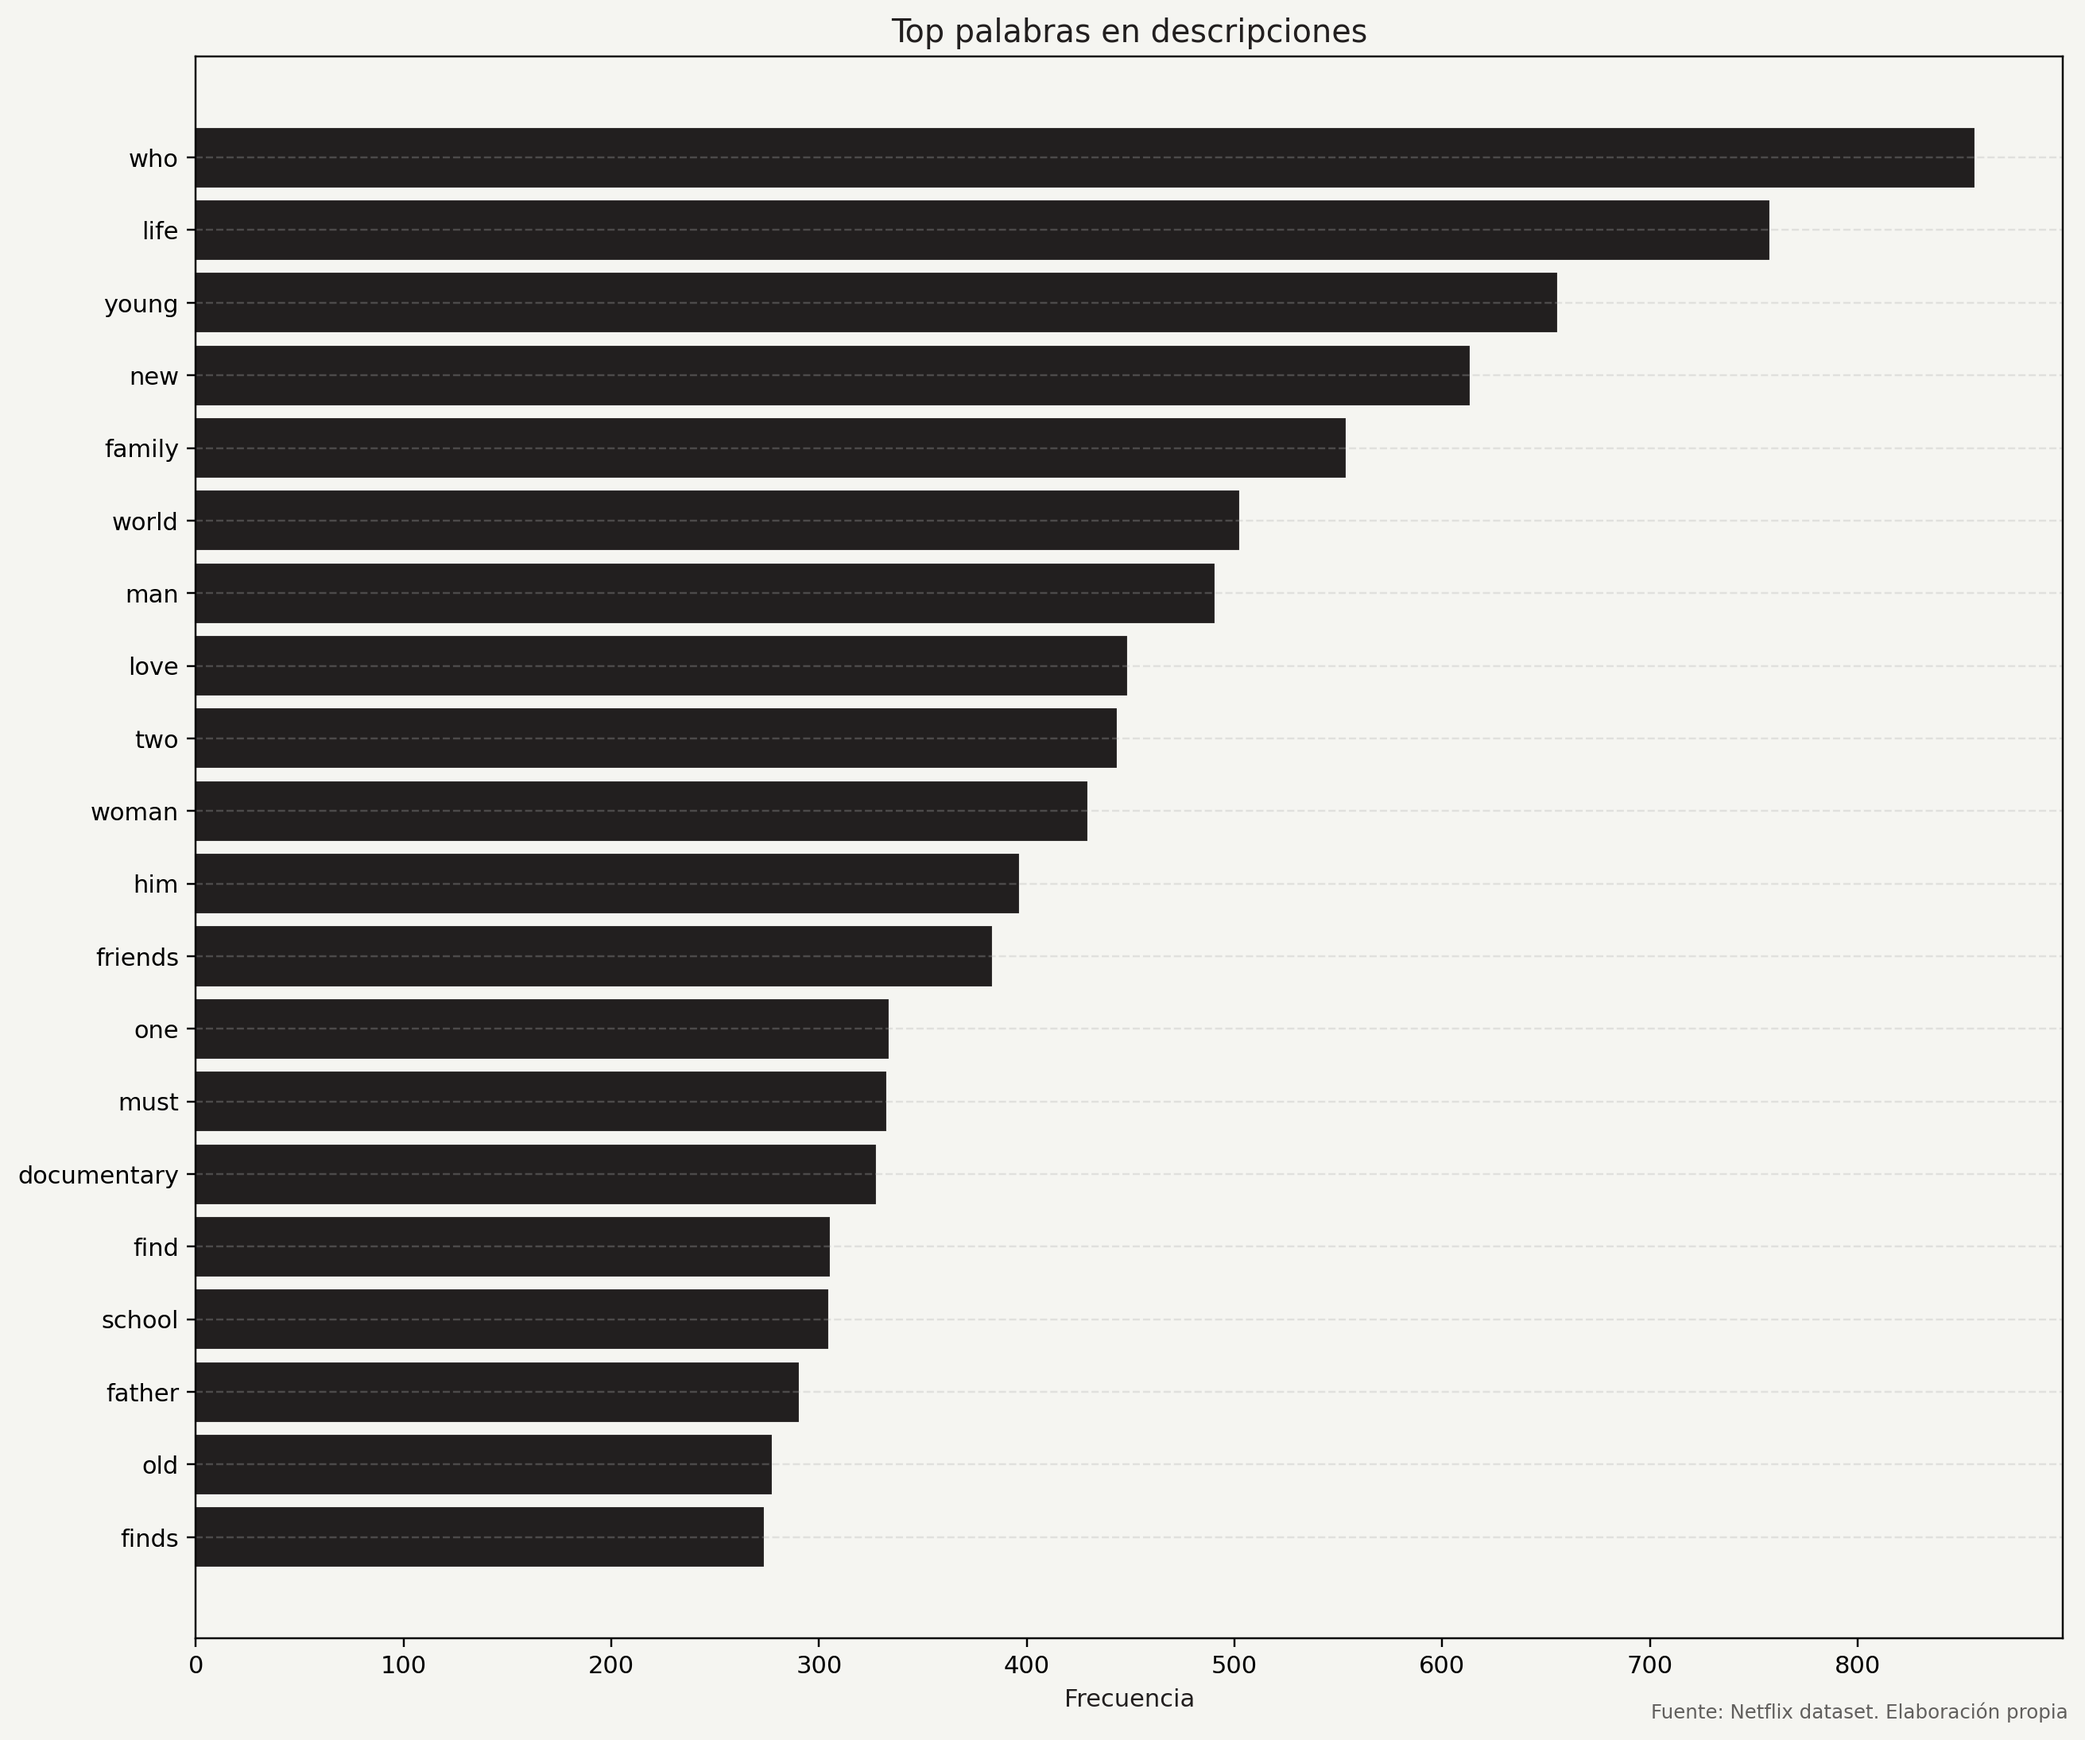
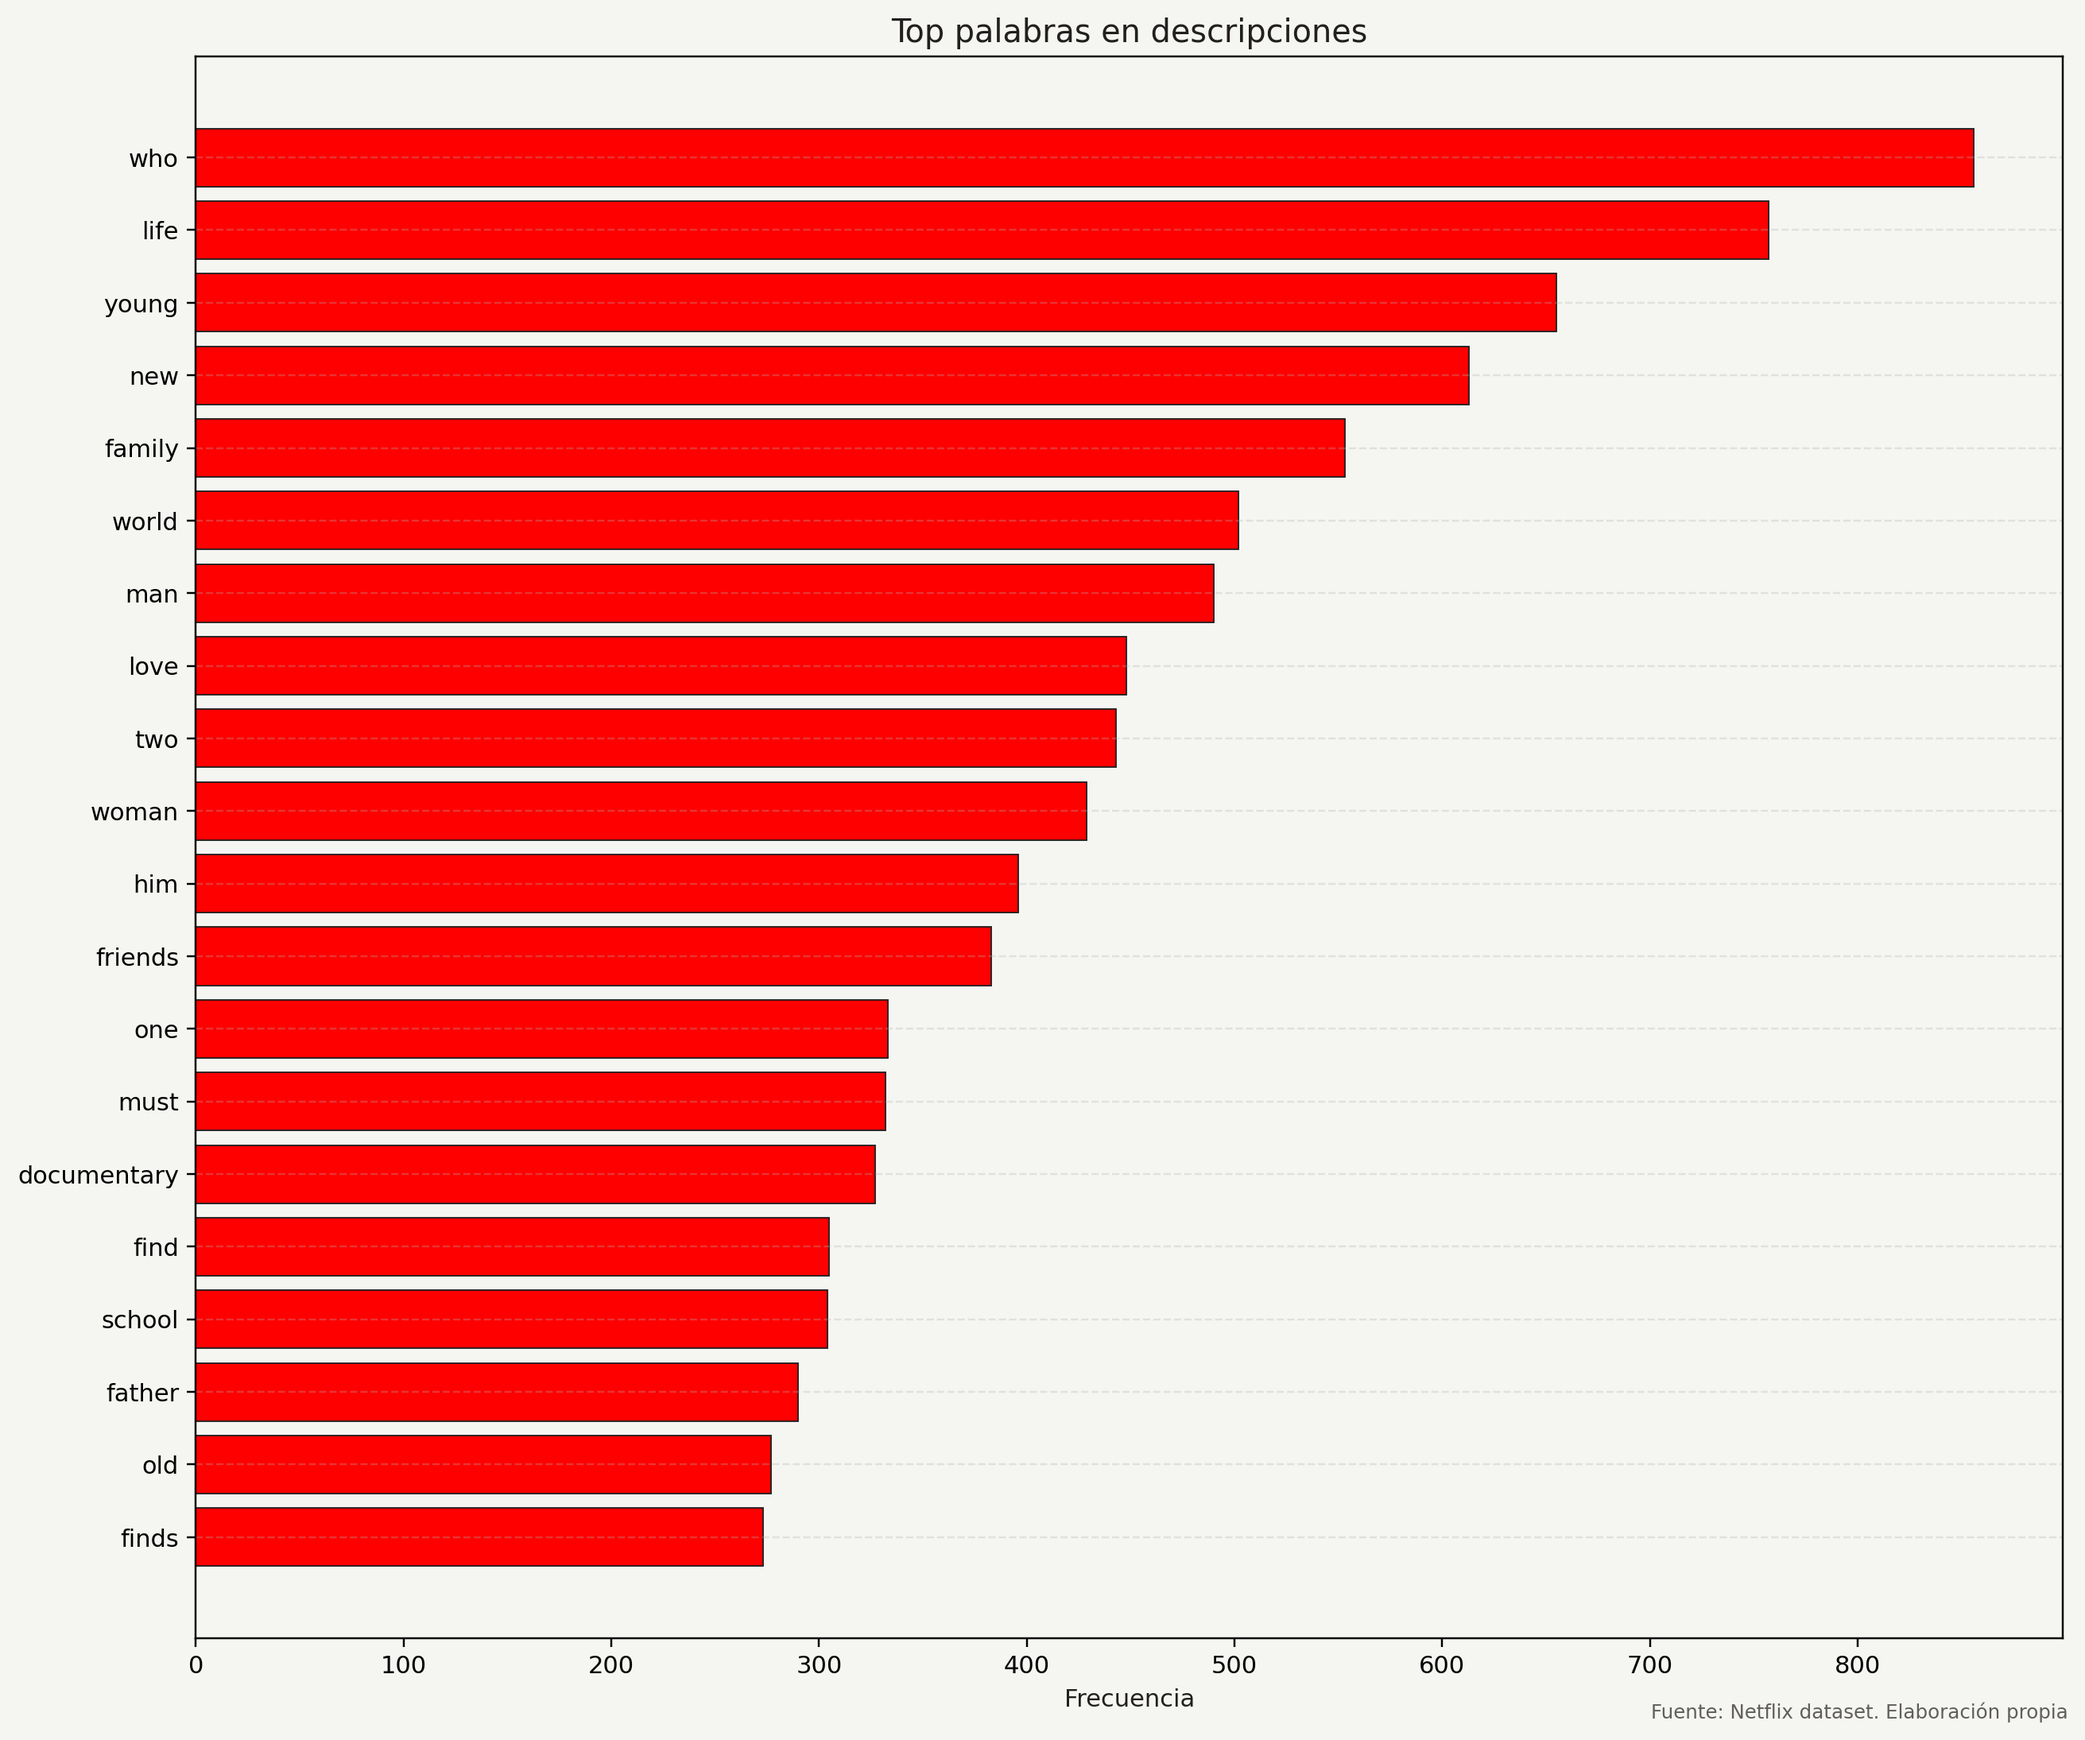
Q8,Q9,Q10

Changed region(s): [[0.0926, 0.0621, 0.9573, 0.9009]]

diff --git a/src/questions/q8_actores_populares.py b/src/questions/q8_actores_populares.py
@@ -186,6 +186,80 @@ def _plot_heatmap_actors_ratings(pv_rating: pd.DataFrame, outpath: str):
     plt.savefig(outpath, dpi=220, facecolor=ps.COLOR_BG, bbox_inches="tight")
     plt.close()
 
+def _plot_donut(series: pd.Series, title: str, outpath: str):
+    """
+    Donut chart genérico para una Serie (index=categorías, values=conteos).
+    Oculta etiquetas si hay muchas categorías y deja leyenda a la derecha.
+    """
+    if series is None or series.empty:
+        return
+
+    # Ordenar desc y filtrar ceros
+    s = series[series > 0].sort_values(ascending=False)
+    if s.empty:
+        return
+
+    # Si hay demasiadas categorías, mostramos top-8 y agrupamos 'Otros'
+    if len(s) > 8:
+        top = s.iloc[:8]
+        otros = pd.Series({"Otros": s.iloc[8:].sum()})
+        s = pd.concat([top, otros])
+
+    plt.figure(figsize=(8, 6), facecolor=ps.COLOR_BG)
+    ax = plt.gca()
+    ps.apply_netflix_style(ax)
+
+    wedges, texts = ax.pie(
+        s.values,
+        startangle=90,
+        counterclock=False,
+        wedgeprops=dict(width=0.38, edgecolor=ps.COLOR_BG),
+        labels=None  # evitamos saturar con etiquetas
+    )
+
+    # Donut: círculo central
+    centre_circle = plt.Circle((0, 0), 0.62, fc=ps.COLOR_BG)
+    fig = plt.gcf()
+    fig.gca().add_artist(centre_circle)
+
+    ax.set_title(title, fontsize=13, color=ps.COLOR_TV)
+
+    # Leyenda a la derecha
+    ax.legend(
+        wedges, s.index.tolist(),
+        title="Categorías",
+        loc="center left", bbox_to_anchor=(1.0, 0.5),
+        frameon=False
+    )
+
+    ps.add_source_note()
+    plt.tight_layout()
+    plt.savefig(outpath, dpi=220, facecolor=ps.COLOR_BG, bbox_inches="tight")
+    plt.close()
+
+
+def _plot_donut_ratings(pv_rating: pd.DataFrame, outpath: str):
+    """
+    Donut de distribución de ratings entre todos los títulos de los actores TOP.
+    Usa la tabla actor × rating (pv_rating) ya construida.
+    """
+    if pv_rating is None or pv_rating.empty:
+        return
+    # Sumamos por columna (rating). Quitamos 'Total' si está.
+    s = pv_rating.drop(columns=[c for c in ["Total"] if c in pv_rating.columns], errors="ignore").sum(axis=0)
+    _plot_donut(s, "Distribución de ratings (actores Top)", outpath)
+
+
+def _plot_donut_types(base: pd.DataFrame, top_idx: pd.Index, outpath: str):
+    """
+    Donut de distribución por tipo (Movie vs TV Show) SOLO para títulos de actores Top.
+    """
+    if base is None or base.empty or top_idx is None or len(top_idx) == 0:
+        return
+    sub = base[base["cast_final"].isin(top_idx)]
+    s = sub["type"].value_counts()
+    _plot_donut(s, "Distribución por tipo (actores Top)", outpath)
+
 
 def run(df: pd.DataFrame, outdir: str = "outputs", topn: int = 20) -> dict:
 
@@ -206,6 +280,9 @@ def run(df: pd.DataFrame, outdir: str = "outputs", topn: int = 20) -> dict:
     _plot_barh_top_counts(pv_counts, os.path.join(outdir_q8, "q8_top_actores_count_barh.png"))
     _plot_stacked100_by_rating(props_rating, os.path.join(outdir_q8, "q8_top_actores_rating_stacked100.png"))
     _plot_heatmap_actors_ratings(pv_rating, os.path.join(outdir_q8, "q8_top_actores_rating_heatmap.png"))
+    # Donuts (círculos) de resumen
+    _plot_donut_ratings( pv_rating, os.path.join(outdir_q8, "q8_top_actores_rating_donut.png"))
+    _plot_donut_types(base, top_idx, os.path.join(outdir_q8, "q8_top_actores_type_donut.png"))
 
     return {
         "base": base,              # DF expandido con cast_final

diff --git a/src/questions/q9_duracion_contenido.py b/src/questions/q9_duracion_contenido.py
@@ -1,71 +1,49 @@
-# Pregunta 9:
-# ¿Cuál es la distribución en duración en series y películas?
-#
-# Buenas prácticas:
-# - Reutiliza utils.cleaning.normalize_duration
-# - Gráficos separados para Movies (minutos) y TV Shows (temporadas)
-# - Paleta y fuente con utils.plot_style
-#
-# Salidas:
-# - outputs/q9/q9_movies_duration_hist.png
-# - outputs/q9/q9_tvshows_duration_hist.png
-
-#   Pipeline Q9:
-#   Normaliza duración en minutos/temporadas
-#   Genera histogramas para Movies y TV Shows
-#   Devuelve dict con DataFrames filtrados
-
+# -*- coding: utf-8 -*-
+# Pregunta 9: ¿Cuál es la distribución en duración en series y películas?
 
 from __future__ import annotations
 import os
+import numpy as np
 import pandas as pd
 import matplotlib.pyplot as plt
-
+import numpy as np
 from utils import plot_style as ps
 from utils import cleaning as cl
 
-# Plot
 def _plot_hist_movies(df: pd.DataFrame, outpath: str):
     data = df["duration_minutes"].dropna()
     if data.empty:
         return
-
     plt.figure(figsize=(10, 5), facecolor=ps.COLOR_BG)
     ax = plt.gca()
     ps.apply_netflix_style(ax)
-
-    ax.hist(data, bins=30, color=ps.COLOR_MOVIE, edgecolor=ps.COLOR_TV, alpha=0.85)
-
+    # Usar más bins para mayor detalle en el eje X
+    ax.hist(data, bins=60, color=ps.COLOR_MOVIE, edgecolor=ps.COLOR_TV, alpha=0.85)
     ax.set_xlabel("Duración (minutos)", color=ps.COLOR_TV)
     ax.set_ylabel("# Películas", color=ps.COLOR_TV)
     ax.set_title("Distribución de duración de películas", fontsize=13, color=ps.COLOR_TV)
-
     ps.add_source_note("Fuente: Netflix dataset. Elaboración propia")
     plt.tight_layout()
     plt.savefig(outpath, dpi=220, facecolor=ps.COLOR_BG)
     plt.close()
 
 def _plot_hist_tvshows(df: pd.DataFrame, outpath: str):
-
     data = df["duration_seasons"].dropna()
     if data.empty:
         return
-
-    plt.figure(figsize=(8, 5), facecolor=ps.COLOR_BG)
+    # Usar bins más pequeños para mayor detalle en el eje X
+    bins = np.arange(0.5, data.max() + 1.5, 0.5)  # medio entero para más valores
+    plt.figure(figsize=(9, 5), facecolor=ps.COLOR_BG)
     ax = plt.gca()
     ps.apply_netflix_style(ax)
-
-    ax.hist(data, bins=range(1, int(data.max()) + 2), color=ps.COLOR_TV, edgecolor=ps.COLOR_MOVIE, alpha=0.85)
-
+    ax.hist(data, bins=bins, color=ps.COLOR_TV, edgecolor=ps.COLOR_MOVIE, alpha=0.85)
     ax.set_xlabel("Cantidad de temporadas", color=ps.COLOR_TV)
     ax.set_ylabel("# Series", color=ps.COLOR_TV)
     ax.set_title("Distribución de duración de series (temporadas)", fontsize=13, color=ps.COLOR_TV)
-
     ps.add_source_note("Fuente: Netflix dataset. Elaboración propia")
     plt.tight_layout()
     plt.savefig(outpath, dpi=220, facecolor=ps.COLOR_BG)
     plt.close()
-
 
 def run(df: pd.DataFrame, outdir: str = "outputs") -> dict:
     outdir_q9 = os.path.join(outdir, "q9")

diff --git a/src/utils/cleaning.py b/src/utils/cleaning.py
@@ -1,10 +1,12 @@
 # -*- coding: utf-8 -*-
 from __future__ import annotations
 import re
-import unicodedata
 import difflib
 from typing import Dict, List
 import pandas as pd
+import collections
+import numpy as np
+
 
 # ---------------- Países ----------------
 COUNTRY_ALIASES: Dict[str, str] = {
@@ -190,38 +192,56 @@ def expand_and_normalize_cast(df: pd.DataFrame) -> pd.DataFrame:
     return dfx
 
 # ---------------- Duraciones ----------------
-import re
-import pandas as pd
+
 
 def normalize_duration(df: pd.DataFrame) -> pd.DataFrame:
     """
-    Normaliza la columna 'duration' en dos columnas nuevas:
-    - duration_minutes (para Movies)
-    - duration_seasons (para TV Shows)
+    Normaliza 'type' y parsea 'duration' según los formatos del dataset:
+      - Películas: 'N min'      -> duration_minutes = N
+      - Series:    'N Season(s)'-> duration_seasons = N
+
+    NOTA: según tus ejemplos no aparecen horas ('1h 30m'), por eso simplificamos.
     """
     dfx = df.copy()
-    dfx["duration"] = dfx["duration"].fillna("").astype(str).str.strip()
 
-    # Películas (minutos)
-    dfx.loc[dfx["type"] == "Movie", "duration_minutes"] = (
-        dfx.loc[dfx["type"] == "Movie", "duration"]
-        .str.extract(r"(\d+)")
-        .astype(float)
+    # 1) Normalizar 'type' a valores canónicos
+    def _norm_type(x: str) -> str:
+        s = str(x).strip().lower().replace("-", " ")
+        s = re.sub(r"\s+", " ", s)
+        if s in {"movie", "pelicula", "películas"}:
+            return "Movie"
+        if s in {"tv show", "tv shows", "serie", "series"}:
+            return "TV Show"
+        return str(x).strip()  # fallback si viene algo raro
+
+    dfx["type"] = dfx["type"].map(_norm_type)
+
+    # 2) Normalizar 'duration' -> str lowercase
+    dur = dfx["duration"].fillna("").astype(str).str.strip()
+    dur_low = dur.str.lower()
+
+    # Columnas de salida
+    dfx["duration_minutes"] = np.nan
+    dfx["duration_seasons"] = np.nan
+
+    # 3) Parseo directo según el texto
+    #    a) Minutos: 'NN min'
+    is_min = dur_low.str.contains(r"\bmin\b")
+    dfx.loc[is_min, "duration_minutes"] = (
+        dur_low[is_min].str.extract(r"(\d+)\s*min", expand=False).astype(float)
     )
 
-    # Series (temporadas)
-    dfx.loc[dfx["type"] == "TV Show", "duration_seasons"] = (
-        dfx.loc[dfx["type"] == "TV Show", "duration"]
-        .str.extract(r"(\d+)")
-        .astype(float)
+    #    b) Temporadas: 'N Season' / 'N Seasons'
+    is_season = dur_low.str.contains(r"season")
+    dfx.loc[is_season, "duration_seasons"] = (
+        dur_low[is_season].str.extract(r"(\d+)\s*season", expand=False).astype(float)
     )
 
     return dfx
 
+
 # ---------------- Text Mining (EN) ----------------
-import re
-import collections
-import pandas as pd
+
 
 ENGLISH_STOPWORDS = {
     # básicos comunes

diff --git a/src/main.py b/src/main.py
@@ -28,6 +28,7 @@ def main():
     pivot_q1 = q1.run(df, outdir=OUTDIR)
     print("[Q1] Proporciones (primeras filas):")
     print(pivot_q1.head())
+    print()
 
     # ---- Pregunta 2 ----
     pivot_q2 = q2.run(df, outdir=OUTDIR)
@@ -49,37 +50,53 @@ def main():
     pivot_q4 = q4.run(df, outdir=OUTDIR)
     print("[Q4] Rating vs Tipo:")
     print(pivot_q4["counts"].head())  
+    print()
 
     # ---- Pregunta 5 ----
     pivot_q5 = q5.run(df, outdir=OUTDIR)
     print("[Q5] Audiencia vs Pais:")
     print(pivot_q5["top1_10"].head())
+    print()
 
     # ---- Pregunta 6 ----
     pivot_q6 = q6.run(df, outdir=OUTDIR)
     print("[Q6] tabla mes×categoría (shape):", pivot_q6["tabla_mes_categoria"].shape)
     print("[Q6] totales por mes (primeros):")
     print(pivot_q6["totales_mes"].head())
+    print()
 
     # ---- Pregunta 7 ----
     pivot_q7 = q7.run(df, outdir=OUTDIR, topn=20)
     print("[Q7] Top 20 directores por tipo (primeras filas):")
     print(pivot_q7["pivot_tipo"].tail())  
+    print()
 
     # ---- Pregunta 8 ----
     pivot_q8 = q8.run(df, outdir=OUTDIR)
     print("[Q8] Top actores por cantidad de títulos (primeras filas):")
+    print(pivot_q8["ranking"].head())
+    print()
 
     # ---- Pregunta 9 ----
     res_q9 = q9.run(df, outdir=OUTDIR)
     print("[Q9] Duración de películas y series:")
     print(res_q9["movies"].head())
     print(res_q9["tvshows"].head())
+    print()
+
 
     # ---- Pregunta 10 ----
     res_q10 = q10.run(df, outdir=OUTDIR, topn=20)
+    print("[Q10] Top palabras en títulos y descripciones:")
+    print()
+    print("Palabras en Títulos:")
+    print()
     print(res_q10["top_words_titles"].tail())        # últimas = más frecuentes
+    print()
+    print("Palabras en Descripciones:")
+    print()
     print(res_q10["top_words_descriptions"].tail())
+    print()
 
 
 if __name__ == "__main__":

diff --git a/src/questions/q10_palabras.py b/src/questions/q10_palabras.py
@@ -54,10 +54,10 @@ def run(df: pd.DataFrame, outdir: str = "outputs", topn: int = 20) -> dict:
     top_titles = cl.count_top_words(df["title"],   topn=topn, min_len=3)
     top_desc   = cl.count_top_words(df["description"], topn=topn, min_len=3)
 
-    # Gráficos (usamos colores distintos para diferenciarlos)
-    _plot_top_words_barh(top_titles, "Top palabras en títulos", ps.COLOR_MOVIE,
+    color_rojo = "red"
+    _plot_top_words_barh(top_titles, "Top palabras en títulos", color_rojo,
                          os.path.join(outdir_q10, "q10_top_words_titles.png"))
-    _plot_top_words_barh(top_desc,   "Top palabras en descripciones", ps.COLOR_TV,
+    _plot_top_words_barh(top_desc,   "Top palabras en descripciones", color_rojo,
                          os.path.join(outdir_q10, "q10_top_words_descriptions.png"))
 
     return {
